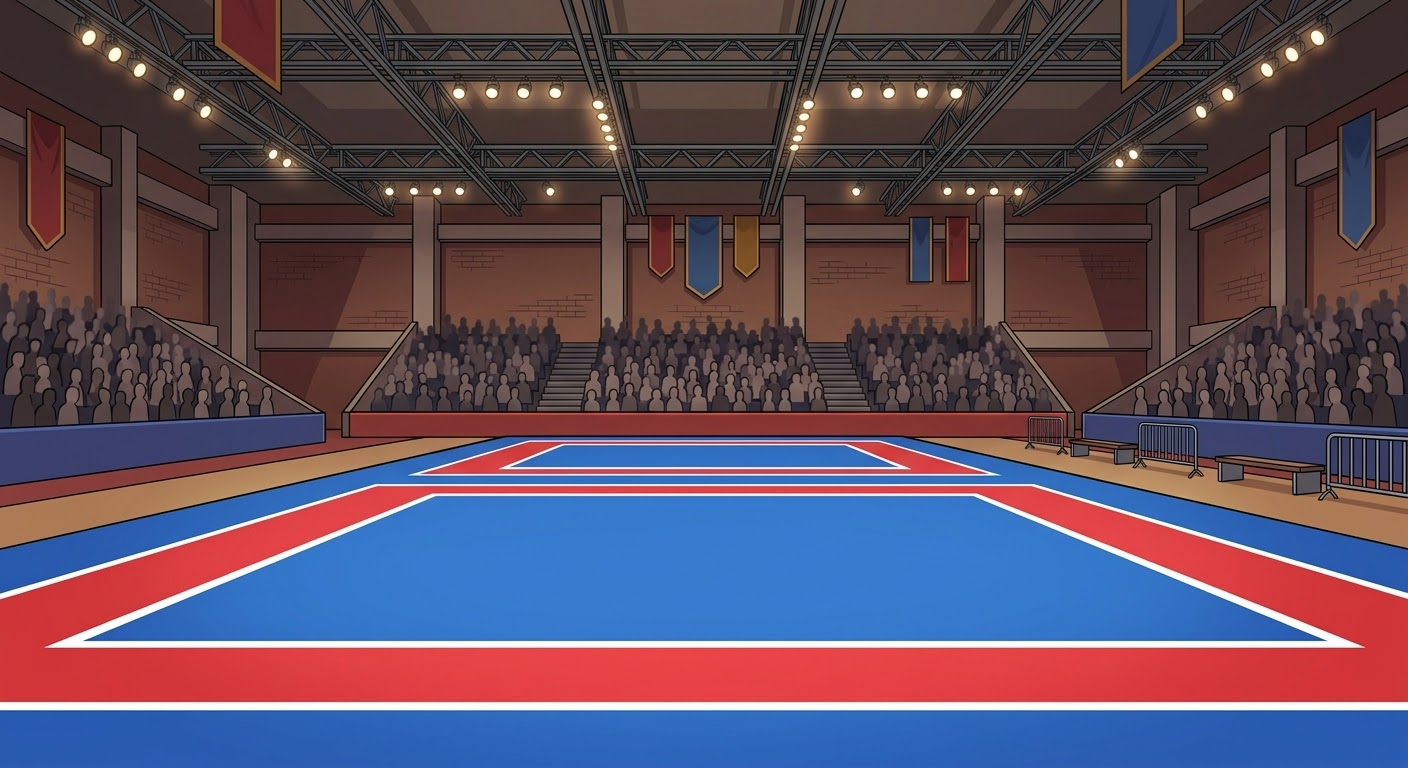
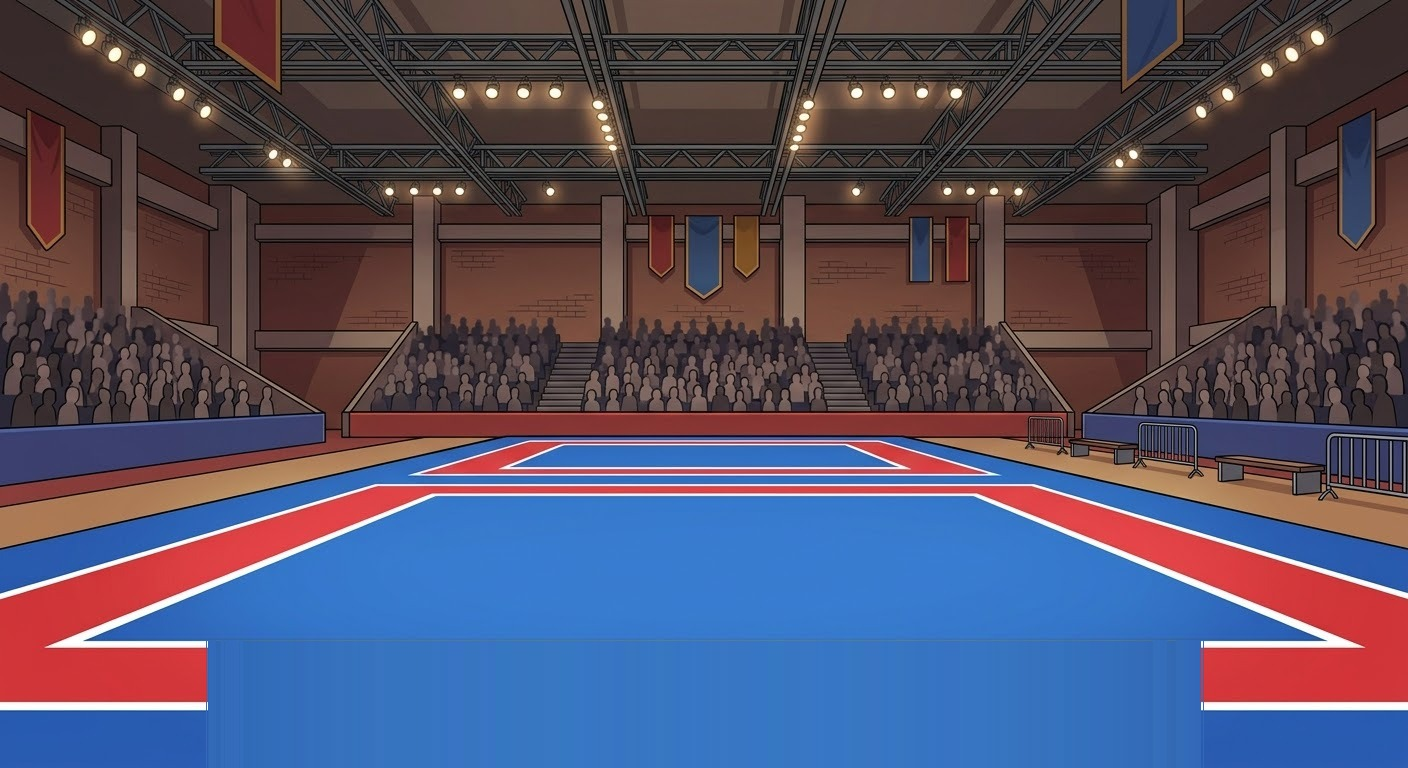
Quitar la línea roja/blanca cercana del tatami y agrandar al karateca
Se retocó bg_tatami.jpg para eliminar la franja roja/blanca del borde
cercano (dentro de la zona visible tras el recorte de cover) y extender
el azul del mat hasta el borde inferior. Sin esa línea de referencia ya
no hay sensación de "fuera del tatami", así que se sube la escala del
personaje de 0.67 a 0.85 y el suelo del 72% al 90% de la altura.

Sube versión a v3 (imagen estática modificada -> hace falta invalidar la
caché del service worker para quien ya tenga la PWA instalada).

Changed region(s): [[0.125, 0.8125, 0.875, 0.9375]]

diff --git a/index.html b/index.html
@@ -251,7 +251,7 @@ if('serviceWorker' in navigator){
     background:linear-gradient(180deg,#dfe3e6,#c4c8cb); }
   .k-stage{ position:relative; width:100%; max-width:330px; aspect-ratio:3/4; overflow:hidden;
     border:3px solid var(--negro); box-shadow:0 6px 16px rgba(0,0,0,.4);
-    background:url('assets/bg_tatami.jpg?v=1') 50% 100%/318% 130% no-repeat; }
+    background:url('assets/bg_tatami.jpg?v=2') 50% 100%/318% 130% no-repeat; }
   .k-kata{ position:absolute; left:0; top:0; will-change:left,top,transform; }
   .k-status{ position:absolute; top:0; left:0; right:0; padding:6px 0; text-align:center; z-index:5;
     font-weight:900; letter-spacing:.14em; text-transform:uppercase; font-size:.82rem; color:#fff; background:rgba(17,17,17,.8); }
@@ -354,7 +354,7 @@ if('serviceWorker' in navigator){
       </select>
     </div>
   </div>
-    <div class="app-ver">v2</div>
+    <div class="app-ver">v3</div>
     </div>
 
   </main>
@@ -856,10 +856,10 @@ function kSetStatus(t,cls){ kStatus.textContent=t; kStatus.className='k-status'+
 
 function kLayout(name, tech, mirror){
   var sp=K_SPR[name], SW=kStage.clientWidth, SH=kStage.clientHeight;
-  var scale=Math.min(SH*0.67/sp.h, SW*0.96/sp.w);
+  var scale=Math.min(SH*0.85/sp.h, SW*0.96/sp.w);
   if(tech && tech.sc) scale*=tech.sc;
   var dispW=sp.w*scale, dispH=sp.h*scale;
-  var floorY=SH*0.72, top=floorY-dispH;
+  var floorY=SH*0.90, top=floorY-dispH;
   var bodyF=mirror?(1-sp.cx):sp.cx;
   var left=SW/2 - dispW*bodyF;
   var ringX=null, ringY=null;

diff --git a/sw.js b/sw.js
@@ -1,5 +1,5 @@
 /* RDS Plantilla - Service Worker */
-var CACHE = 'reactionkarate-v2';
+var CACHE = 'reactionkarate-v3';
 var ASSETS = [
   './',
   './index.html',
